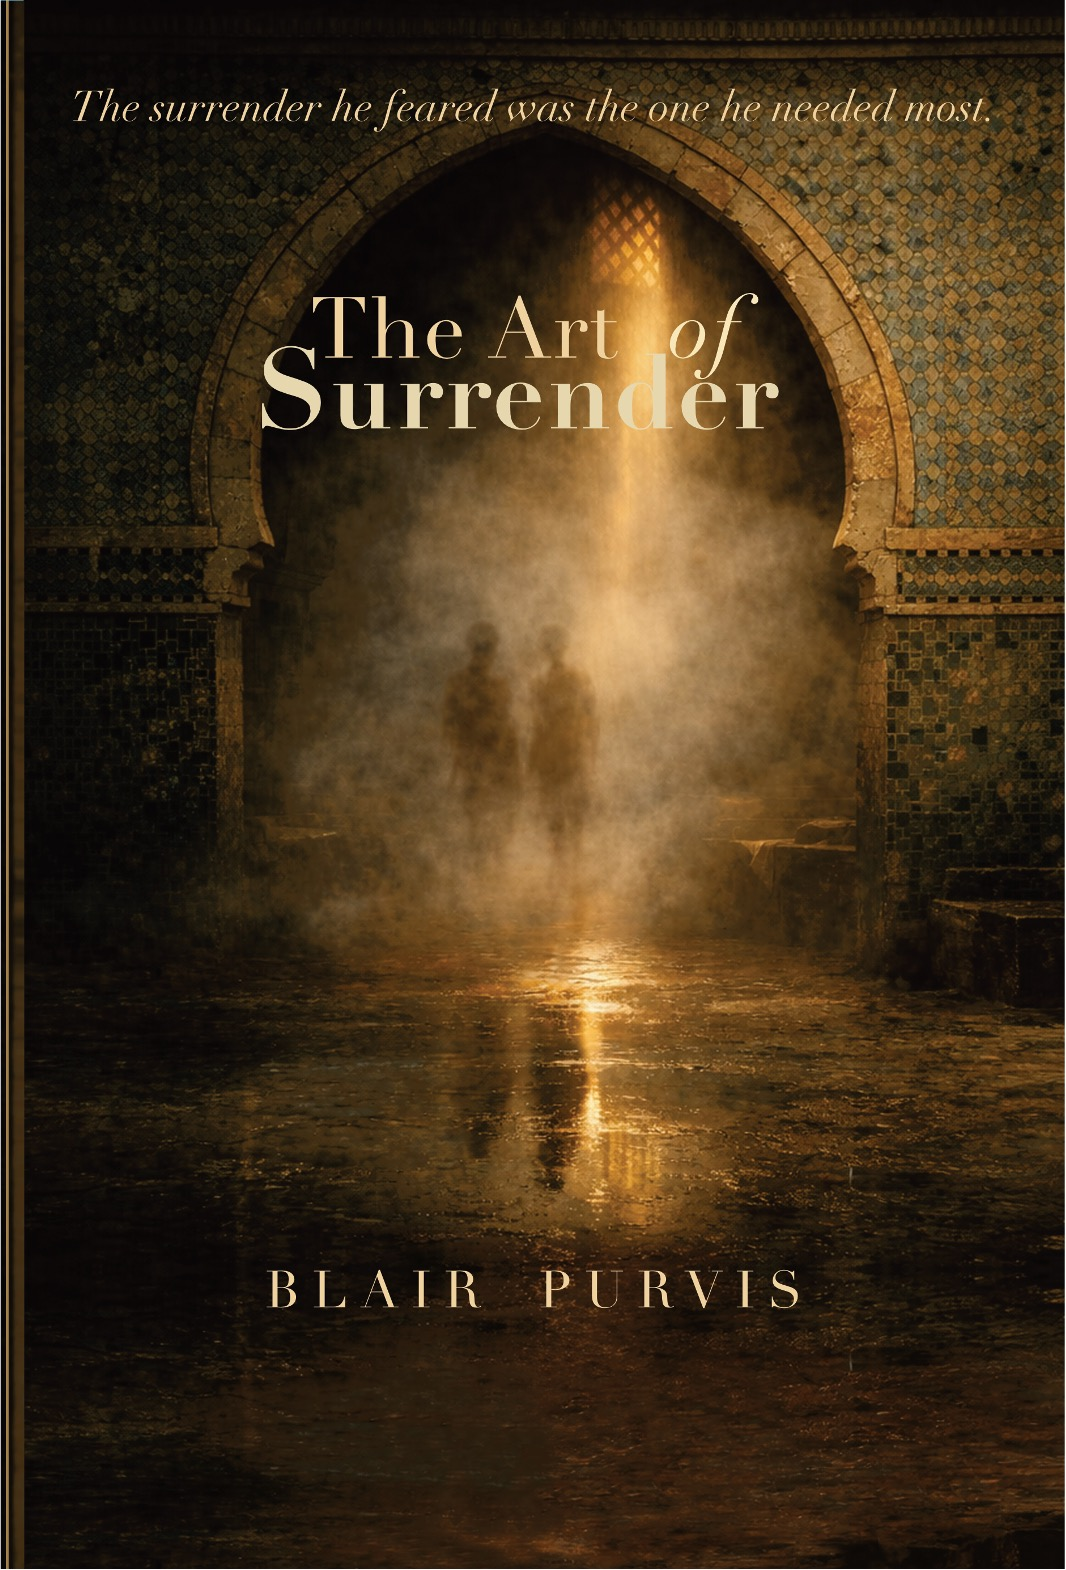
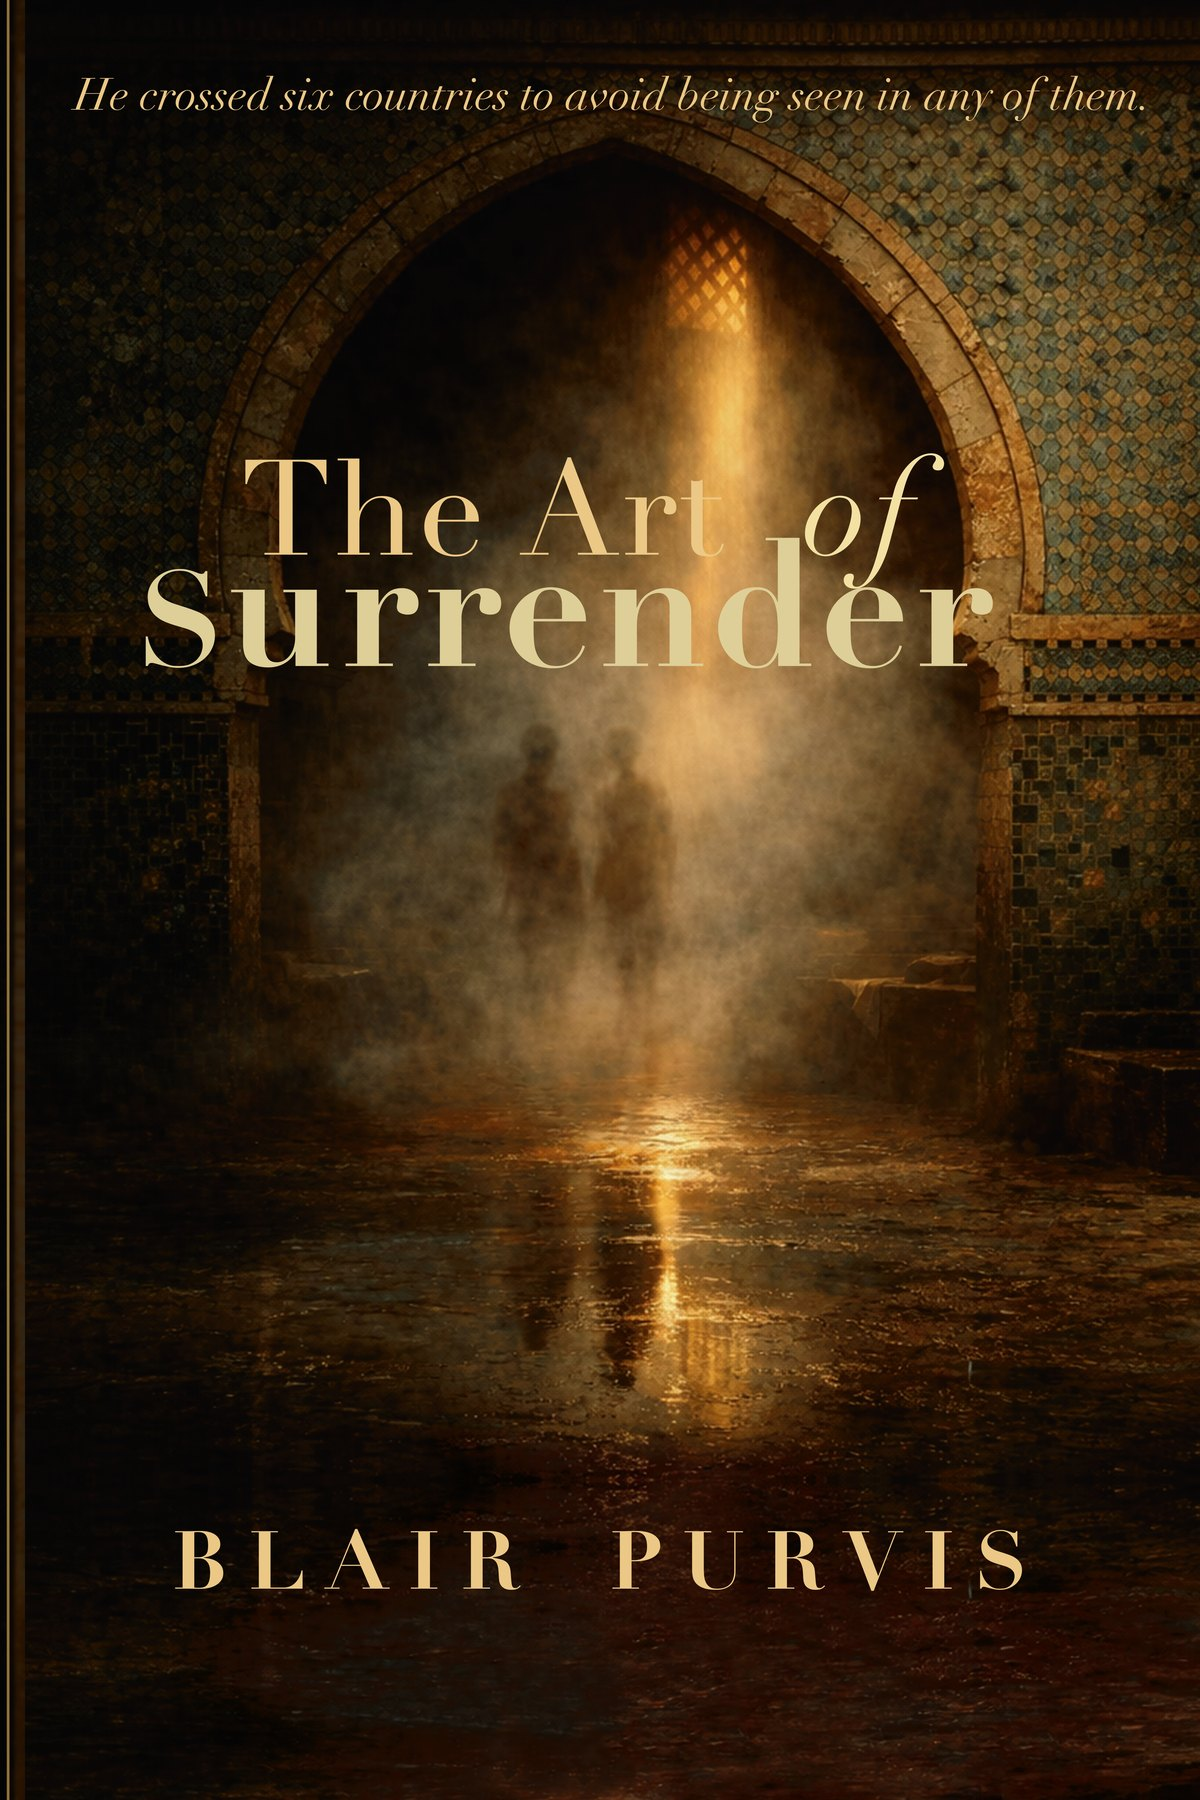
taos

diff --git a/authors/blair-purvis/index.html b/authors/blair-purvis/index.html
@@ -188,11 +188,26 @@
             background: var(--cream);
         }
 
+        /* Photo credit runs up the left-hand edge, reading bottom to top,
+           with the baseline of the lettering facing the photo. */
+        .author-portrait-wrap {
+            display: grid;
+            grid-template-columns: auto minmax(0, 1fr);
+            column-gap: 0.4rem;
+        }
+        .author-portrait { grid-column: 2; grid-row: 1; }
         .author-portrait-credit {
+            grid-column: 1;
+            grid-row: 1;
+            align-self: end;
+            writing-mode: vertical-rl;
+            transform: rotate(180deg);
+            white-space: nowrap;
+            margin: 0;
             font-family: 'Inter', system-ui, sans-serif;
             font-size: 0.72rem;
+            letter-spacing: 0.02em;
             color: var(--text-muted);
-            margin-top: 0.5rem;
         }
         .author-portrait-credit a { color: inherit; }
 
